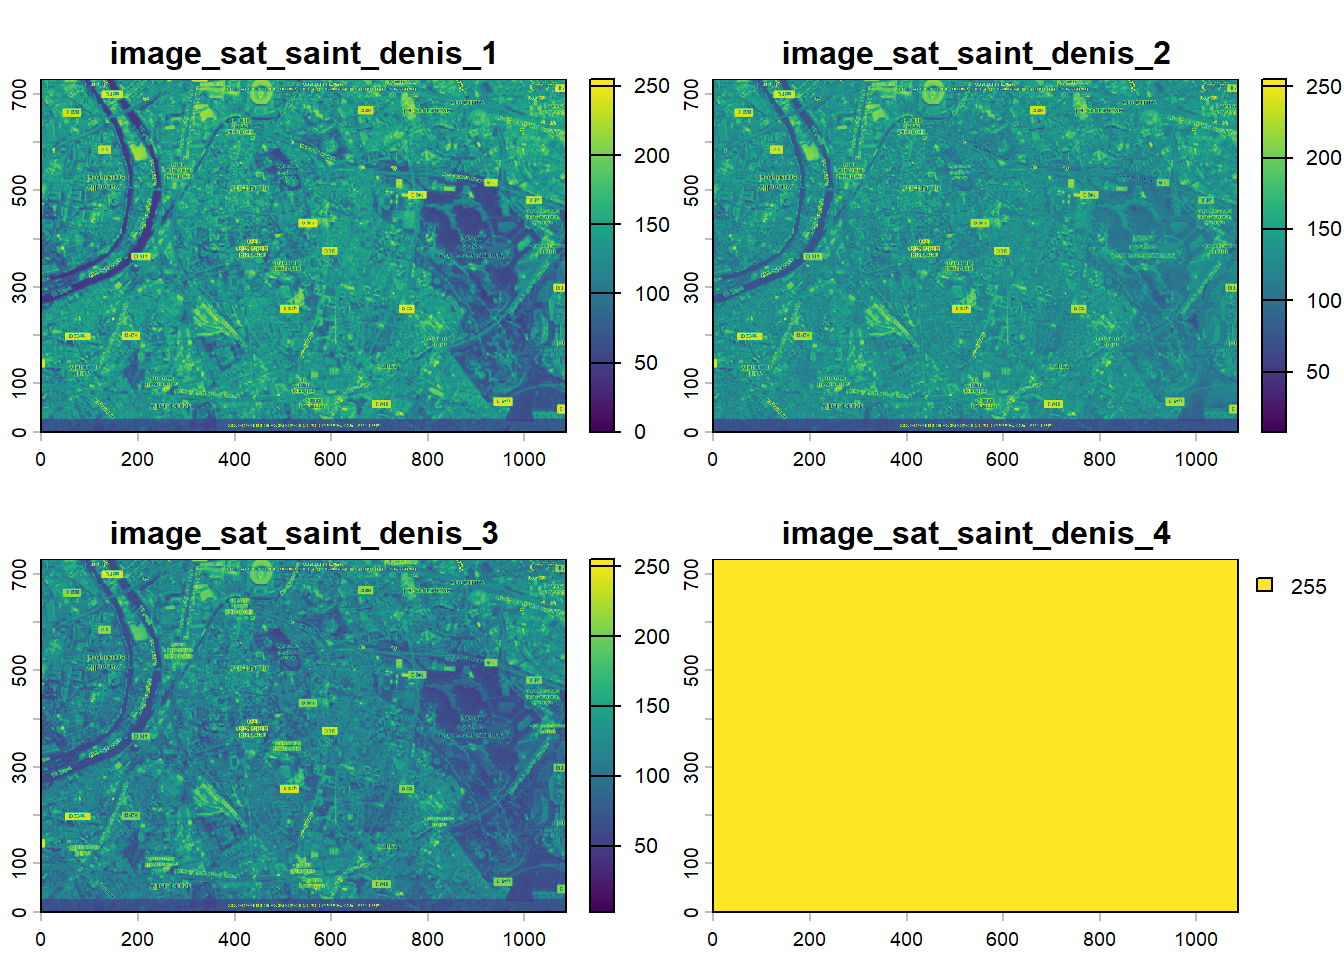
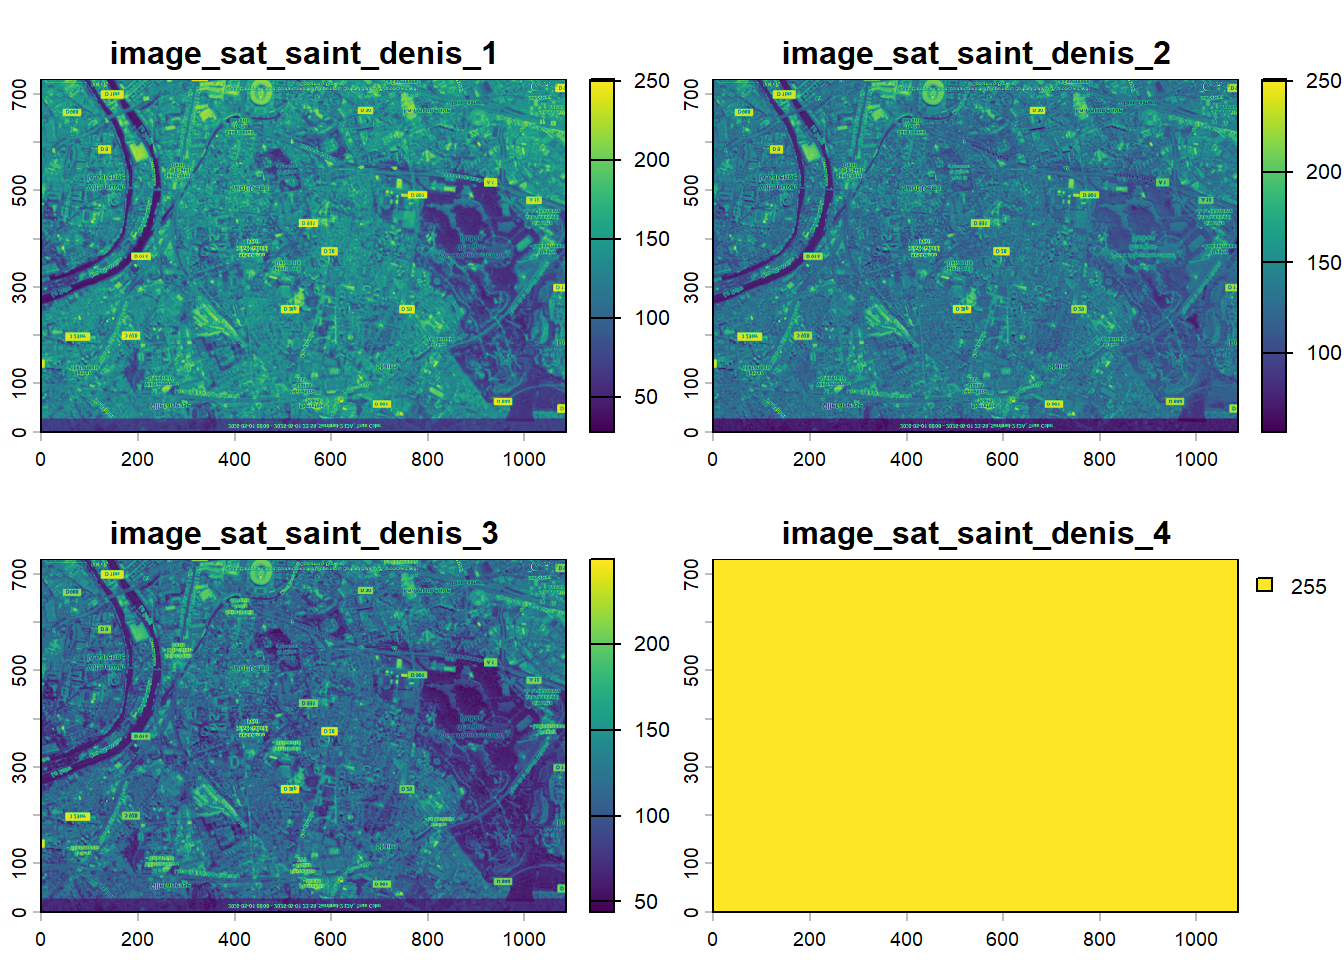
version presque finale

diff --git a/docs/index.html b/docs/index.html
@@ -320,45 +320,8 @@ d’engendrer des formes de fragmentation spatiale. Pour cela, nous allons
 répondre à la problématique suivante :</p>
 <p>Dans quelle mesure les inégalités de revenus à Saint-Denis se
 traduisent-elles par des formes de fragmentation socio-spatiale ?</p>
-</div>
-<div id="description-des-données" class="section level1">
-<h1>Description des données</h1>
-<ul>
-<li>source des données</li>
-<li>type de données</li>
-<li>format</li>
-<li>emprise spatiale</li>
-<li>variables</li>
-</ul>
-</div>
-<div id="problématique" class="section level1">
-<h1>Problématique</h1>
-<p>Question étudiée.</p>
-<p>Objectifs de l’analyse.</p>
-</div>
-<div id="géotraitements-vecteurs" class="section level1">
-<h1>Géotraitements vecteurs</h1>
-<p>Description des traitements réalisés.</p>
-<div id="schéma" class="section level2">
-<h2>Schéma</h2>
-<p>(insérer image)</p>
-</div>
-</div>
-<div id="géotraitements-rasters" class="section level1">
-<h1>Géotraitements rasters</h1>
-<p>Description des traitements réalisés.</p>
-<div id="schéma-1" class="section level2">
-<h2>Schéma</h2>
-<p><img src="index_files/figure-html/decoupage_IRIS.png" /></p>
-</div>
-</div>
-<div id="jointures" class="section level1">
-<h1>Jointures</h1>
-<p>Description des jointures attributaires ou spatiales.</p>
-</div>
-<div id="conclusion" class="section level1">
-<h1>Conclusion</h1>
-<p>Résultats obtenus et limites.</p>
+<p><img src="index_files/photo_saint_denis_1.jpg" /></p>
+<p><img src="index_files/photo_saint_denis_2.jpg" /></p>
 </div>
 
 

diff --git a/docs/jointures.html b/docs/jointures.html
@@ -281,6 +281,9 @@ $(document).ready(function () {
 </div>
 
 
+<div id="carte-des-revenus-médians-à-saint-denis"
+class="section level1">
+<h1>Carte des revenus médians à Saint-Denis</h1>
 <pre class="r"><code>library(sf)
 library(tmap)
 
@@ -354,6 +357,7 @@ iris &lt;- st_read(&quot;data/iris.shp&quot;)</code></pre>
 au sein de Saint-Denis. Les IRIS situés à proximité des grands axes et
 des zones récemment réaménagées présentent des revenus plus élevés que
 les secteurs plus populaires du nord de la commune.</p>
+</div>
 
 
 

diff --git a/docs/rasters.html b/docs/rasters.html
@@ -286,7 +286,9 @@ $(document).ready(function () {
 
 r &lt;- rast(&quot;index_files/image_sat_saint_denis.png&quot;)</code></pre>
 <pre><code>## Warning: [rast] unknown extent</code></pre>
-<pre class="r"><code>plot(r)</code></pre>
+<pre class="r"><code>r2 &lt;- aggregate(r, fact = 2)
+
+plot(r2)</code></pre>
 <p><img src="rasters_files/figure-html/unnamed-chunk-1-1.png" alt="" width="672" /></p>
 <p>Bien que notre analyse repose principalement sur des données
 vectorielles, un traitement raster peut être réalisé à partir des